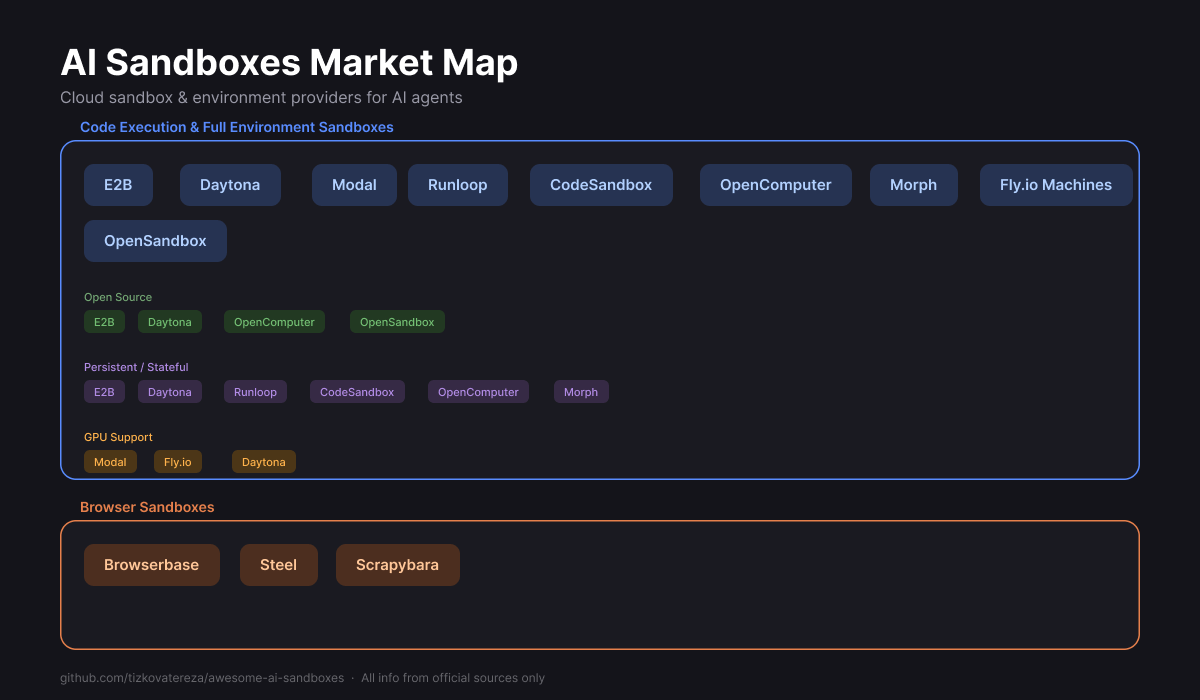
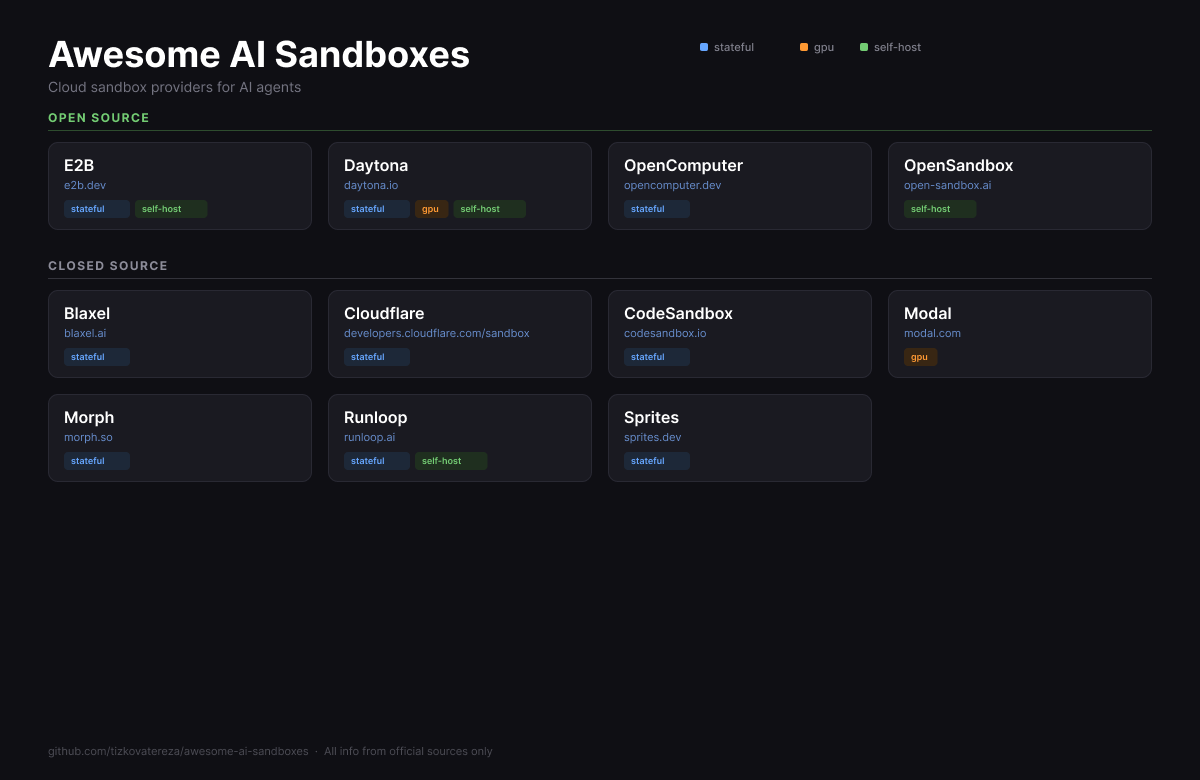
Add GPU and BYOC/self-host info for all providers, add Sprites and Cloudflare Sandboxes

diff --git a/README.md b/README.md
@@ -8,62 +8,66 @@ All information sourced exclusively from official docs and landing pages. PRs we
 
 ![Awesome AI Sandboxes Market Map](assets/market-map.png)
 
-### Labels
-
-`open-source` `stateful` `gpu` `self-host`
-
 ---
 
 ## Open Source
 
-### [E2B](https://e2b.dev) `stateful` `self-host`
-[Website](https://e2b.dev) | [Docs](https://e2b.dev/docs) | [GitHub](https://github.com/e2b-dev/E2B)
+### [E2B](https://e2b.dev)
+[Website](https://e2b.dev) | [Docs](https://e2b.dev/docs) | [GitHub](https://github.com/e2b-dev/E2B) | stateful, self-host
 
 Secure cloud sandboxes for AI agents with real-world tools. Powered by Firecracker microVMs.
 
 - **Isolation:** Firecracker microVMs
 - **Key features:** Code interpreter SDK, custom sandbox templates, desktop sandboxes (computer use), up to 24h sessions, filesystem & network access, sub-200ms cold starts
 - **Stateful:** Yes, persistent full environments, not just code execution
+- **GPU:** No
+- **BYOC / Self-host:** Yes (BYOC, on-prem, self-hosted)
 - **SDKs:** Python, JavaScript/TypeScript
 - **License:** Apache 2.0
 - **Pricing:** Free tier available, pay-as-you-go
 
 ---
 
-### [Daytona](https://daytona.io) `stateful` `gpu` `self-host`
-[Website](https://daytona.io) | [Docs](https://daytona.io/docs) | [GitHub](https://github.com/daytonaio/daytona)
+### [Daytona](https://daytona.io)
+[Website](https://daytona.io) | [Docs](https://daytona.io/docs) | [GitHub](https://github.com/daytonaio/daytona) | stateful, gpu, self-host
 
 Secure and elastic infrastructure for running AI-generated code. Sub-90ms sandbox creation.
 
 - **Isolation:** Secure isolated runtimes
 - **Key features:** Sub-90ms creation, massive parallelization, file/git/LSP/execute APIs, environment snapshots, computer use (Linux, macOS, Windows), Docker-in-Docker, volumes for shared data
 - **Stateful:** Yes, sandboxes run indefinitely, built for long-running and persistent agents
+- **GPU:** Yes (Nvidia H100, RTX PRO 6000)
+- **BYOC / Self-host:** Yes (customer-managed compute, on-prem)
 - **SDKs:** Python, TypeScript
 - **License:** Apache 2.0
 - **Pricing:** Pay-as-you-go per second, $200 free compute included
 
 ---
 
-### [OpenComputer](https://opencomputer.dev) `stateful`
-[Website](https://opencomputer.dev) | [Docs](https://docs.opencomputer.dev) | [GitHub](https://github.com/diggerhq/opencomputer)
+### [OpenComputer](https://opencomputer.dev)
+[Website](https://opencomputer.dev) | [Docs](https://docs.opencomputer.dev) | [GitHub](https://github.com/diggerhq/opencomputer) | stateful
 
 Persistent cloud VMs for AI agents by Digger. Full Linux machines that hibernate when idle and wake in seconds.
 
 - **Isolation:** Full VMs with own filesystem, network, and process space
 - **Key features:** Always-on persistent VMs, elastic compute (resize CPU/memory at runtime), hibernate & wake, instant checkpoints (snapshot/fork/rollback), 20GB disk per VM
 - **Stateful:** Yes, state survives across sessions, VMs stay alive until explicitly stopped
+- **GPU:** No
+- **BYOC / Self-host:** Not specified
 - **SDKs:** API-based (works with Claude Agent SDK and others)
 - **Pricing:** Pay-per-minute, pre-booked ($0.024/h) or instant ($0.12/h) for 2GB/1vCPU
 
 ---
 
-### [OpenSandbox](https://open-sandbox.ai) (by Alibaba) `self-host`
-[Website](https://open-sandbox.ai) | [GitHub](https://github.com/alibaba/OpenSandbox)
+### [OpenSandbox](https://open-sandbox.ai) (by Alibaba)
+[Website](https://open-sandbox.ai) | [GitHub](https://github.com/alibaba/OpenSandbox) | self-host
 
 Production-grade sandbox runtime for AI agents.
 
 - **Isolation:** Docker/Kubernetes runtimes
 - **Key features:** Unified sandbox APIs, supports coding agents, GUI agents, agent evaluation, AI code execution, and RL training
+- **GPU:** Not specified
+- **BYOC / Self-host:** Yes (self-hosted by design)
 - **License:** Apache 2.0
 - **Pricing:** Free (open source)
 
@@ -71,94 +75,108 @@ Production-grade sandbox runtime for AI agents.
 
 ## Closed Source
 
-### [Blaxel](https://blaxel.ai) `stateful`
-[Website](https://blaxel.ai) | [Docs](https://docs.blaxel.ai) | [GitHub](https://github.com/blaxel-ai)
+### [Blaxel](https://blaxel.ai)
+[Website](https://blaxel.ai) | [Docs](https://docs.blaxel.ai) | [GitHub](https://github.com/blaxel-ai) | stateful
 
 The perpetual sandbox platform. Sandboxes auto-suspend when idle and resume from standby in ~25ms with full memory state.
 
 - **Isolation:** Individual microVMs with root filesystem in memory
 - **Key features:** 25ms resume from standby, auto-suspend to $0 compute, 50k+ concurrent sandboxes, Agent Drive (distributed filesystem), volumes for long-term data, agent + MCP server co-hosting on same backbone
 - **Stateful:** Yes, full memory + filesystem snapshot on suspend, persists forever
+- **GPU:** No
+- **BYOC / Self-host:** No
 - **SDKs:** TypeScript, Python
 - **Pricing:** Pay for active compute only, $0 on standby. SOC 2, HIPAA, ISO 27001
 
 ---
 
-### [Cloudflare Dynamic Workers](https://developers.cloudflare.com/dynamic-workers/)
-[Docs](https://developers.cloudflare.com/dynamic-workers/) | [Blog](https://blog.cloudflare.com/dynamic-workers/)
+### [Cloudflare Sandboxes](https://developers.cloudflare.com/sandbox/)
+[Docs](https://developers.cloudflare.com/sandbox/) | [GitHub](https://github.com/cloudflare/sandbox-sdk) | [Blog](https://blog.cloudflare.com/sandbox-ga/) | stateful
 
-V8 isolate-based sandboxing for AI-generated code. Millisecond startup, 100x faster than containers.
+Persistent, isolated environments powered by Cloudflare Containers. Full computer for AI agents with shell, filesystem, and background processes.
 
-- **Isolation:** V8 isolates (not VMs or containers)
-- **Key features:** Millisecond cold starts, unlimited Workers spun up at runtime, network access control, Durable Object Facets with isolated SQLite storage, custom resource limits, tail workers for observability
-- **Stateful:** Optional via Durable Object Facets with isolated persistent state
-- **SDKs:** JavaScript/TypeScript (Workers runtime)
-- **Pricing:** $0.002 per unique Worker loaded per day + standard Workers CPU/invocation charges
+- **Isolation:** Containers (Cloudflare Containers)
+- **Key features:** Snapshots with R2 storage, secure credential injection via egress proxy, PTY terminal support, persistent code interpreters, live preview URLs, filesystem watching, active CPU pricing (pay only for used cycles)
+- **Stateful:** Yes, auto-sleep on idle and wake on request, snapshots for full disk state
+- **GPU:** No
+- **BYOC / Self-host:** No (runs on Cloudflare's network)
+- **SDKs:** JavaScript/TypeScript (`@cloudflare/sandbox`)
+- **Pricing:** Active CPU pricing, up to 15k concurrent instances on standard plan
 
 ---
 
-### [CodeSandbox](https://codesandbox.io) `stateful`
-[Website](https://codesandbox.io) | [Docs](https://codesandbox.io/docs) | [GitHub](https://github.com/codesandbox)
+### [CodeSandbox](https://codesandbox.io)
+[Website](https://codesandbox.io) | [Docs](https://codesandbox.io/docs) | [GitHub](https://github.com/codesandbox) | stateful
 
 Cloud sandbox platform (now part of Together AI) for isolated microVM environments for AI agents.
 
 - **Isolation:** MicroVM-based sandboxes
 - **Key features:** Snapshot/restore in <2s, VM cloning in <2s, millions of concurrent VMs, customizable hibernation, forking for A/B testing agents, SOC 2 Type II
 - **Stateful:** Yes, snapshot and restore
+- **GPU:** No
+- **BYOC / Self-host:** No
 - **SDKs:** TypeScript/JavaScript (`@codesandbox/sdk`)
 - **Pricing:** Free tier (40h VM credits/month), Scale from $170/month
 
 ---
 
-### [Fly.io Machines](https://fly.io) `stateful` `gpu`
-[Website](https://fly.io) | [Docs](https://fly.io/docs) | [GitHub](https://github.com/superfly)
-
-Hardware-virtualized micro VMs that launch in subseconds across 18+ global regions.
-
-- **Isolation:** Hardware-virtualized VMs (Firecracker-based)
-- **Key features:** Subsecond start/stop, Sprites (hardware-isolated sandboxes for AI code with checkpointing), 18+ regions, REST API and CLI, built-in private networking
-- **Stateful:** Yes, persistent volumes and Sprites with checkpointing
-- **SDKs:** REST API (language-agnostic), CLI (`flyctl`)
-- **Pricing:** Pay-as-you-go per second, from ~$2/month for smallest VM
-
----
-
-### [Modal](https://modal.com) `gpu`
-[Website](https://modal.com) | [Docs](https://modal.com/docs) | [GitHub](https://github.com/modal-labs)
+### [Modal](https://modal.com)
+[Website](https://modal.com) | [Docs](https://modal.com/docs) | [GitHub](https://github.com/modal-labs) | gpu
 
 Serverless cloud platform for AI with sandboxes, GPU compute, and sub-second cold starts.
 
 - **Isolation:** Sandboxes with ephemeral isolated environments
-- **Key features:** Pay-per-second billing, GPU support (H100, A100, L40S, etc.), sub-second container boots, autoscale 0 to 1000+ GPUs, SOC2 & HIPAA compliant
+- **Key features:** Pay-per-second billing, sub-second container boots, autoscale 0 to 1000+ GPUs, SOC2 & HIPAA compliant
 - **Stateful:** Sandboxes are ephemeral; volumes available for persistence
+- **GPU:** Yes (H100, A100, L40S, A10, L4, T4, B200, H200)
+- **BYOC / Self-host:** No
 - **SDKs:** Python (primary), TypeScript/Go via libmodal
 - **Pricing:** Pay-as-you-go, $30/month free credits on Starter plan
 
 ---
 
-### [Morph](https://morph.so) `stateful`
-[Website](https://morph.so) | [GitHub](https://github.com/morph-labs)
+### [Morph](https://morph.so)
+[Website](https://morph.so) | [GitHub](https://github.com/morph-labs) | stateful
 
 Cloud infrastructure for AI agents with instant environment branching and burst scalability.
 
 - **Isolation:** Full VM instances (not containers)
 - **Key features:** Instant environment branching and snapshot/restore, burst scalability (millisecond deploys), used for SWE-Bench, RL rollouts, and computer-use agents
 - **Stateful:** Yes, snapshot and restore
+- **GPU:** Not specified
+- **BYOC / Self-host:** Not specified
 - **SDKs:** Python, TypeScript
 - **Pricing:** Not publicly listed
 
 ---
 
-### [Runloop](https://runloop.ai) `stateful` `self-host`
-[Website](https://runloop.ai) | [Docs](https://docs.runloop.ai) | [GitHub](https://github.com/runloopai)
+### [Runloop](https://runloop.ai)
+[Website](https://runloop.ai) | [Docs](https://docs.runloop.ai) | [GitHub](https://github.com/runloopai) | stateful, self-host
 
 Devbox infrastructure for building, benchmarking, and shipping AI coding agents at enterprise scale.
 
 - **Isolation:** Micro-VM sandboxes on custom bare-metal hypervisor
 - **Key features:** 2x faster vCPUs, sub-2s startup for 10GB images, 10k+ parallel sandboxes, snapshot/branch state (Git for Agent State), suspend & resume, built-in SWE-Bench
 - **Stateful:** Yes, snapshot and branch sandbox state
+- **GPU:** Not specified
+- **BYOC / Self-host:** Yes (deploy-to-VPC option)
 - **SDKs:** Python, TypeScript
 - **Pricing:** Free tier with $50 credits, usage-based compute
+
+---
+
+### [Sprites](https://sprites.dev) (by Fly.io)
+[Website](https://sprites.dev) | [Docs](https://docs.sprites.dev) | [API](https://sprites.dev/api) | stateful
+
+Persistent, hardware-isolated execution environments. A Sprite is a full Linux computer with stateful filesystem, unlimited checkpoints, and granular billing.
+
+- **Isolation:** Firecracker VMs with isolated networking
+- **Key features:** Persistent ext4 filesystem across runs, live checkpoints (~300ms, copy-on-write), dynamic resources (up to 8 CPUs / 16GB RAM), HTTP access with unique URLs per Sprite, L3 network egress policies, auto-activate on request
+- **Stateful:** Yes, filesystem persists between runs, full environment checkpointed
+- **GPU:** No
+- **BYOC / Self-host:** No
+- **SDKs:** JavaScript, Go, CLI, REST API
+- **Pricing:** Pay for actual usage: $0.07/CPU-hour, $0.04375/GB-hour memory, $30 trial credits
 
 ---
 
